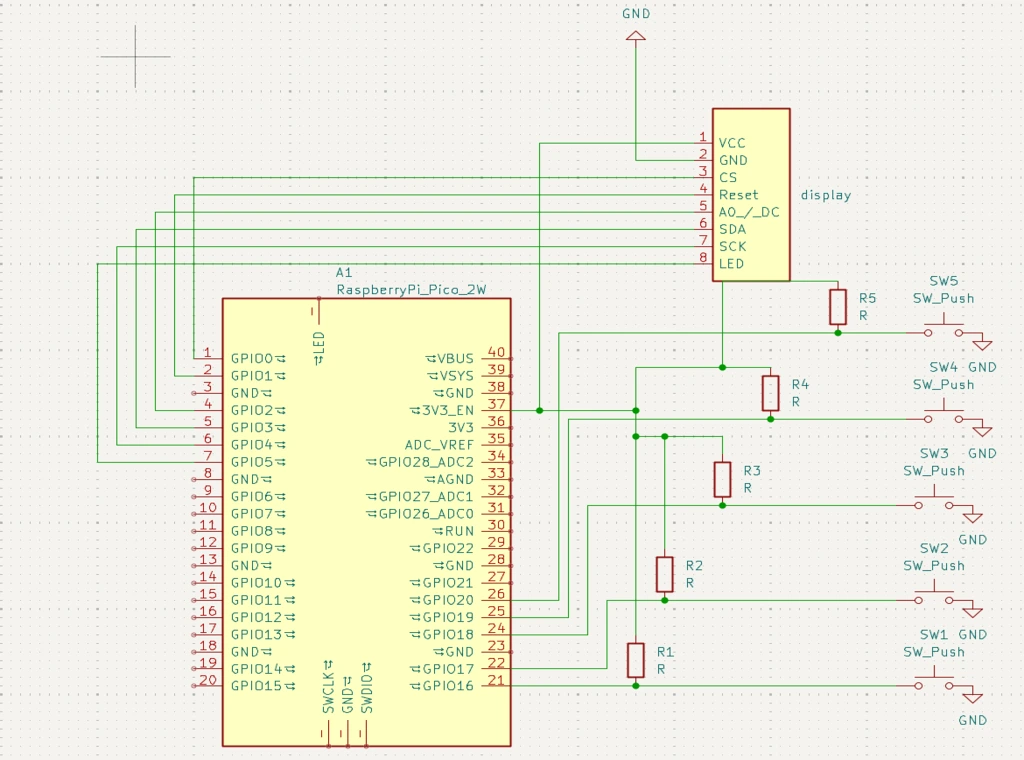
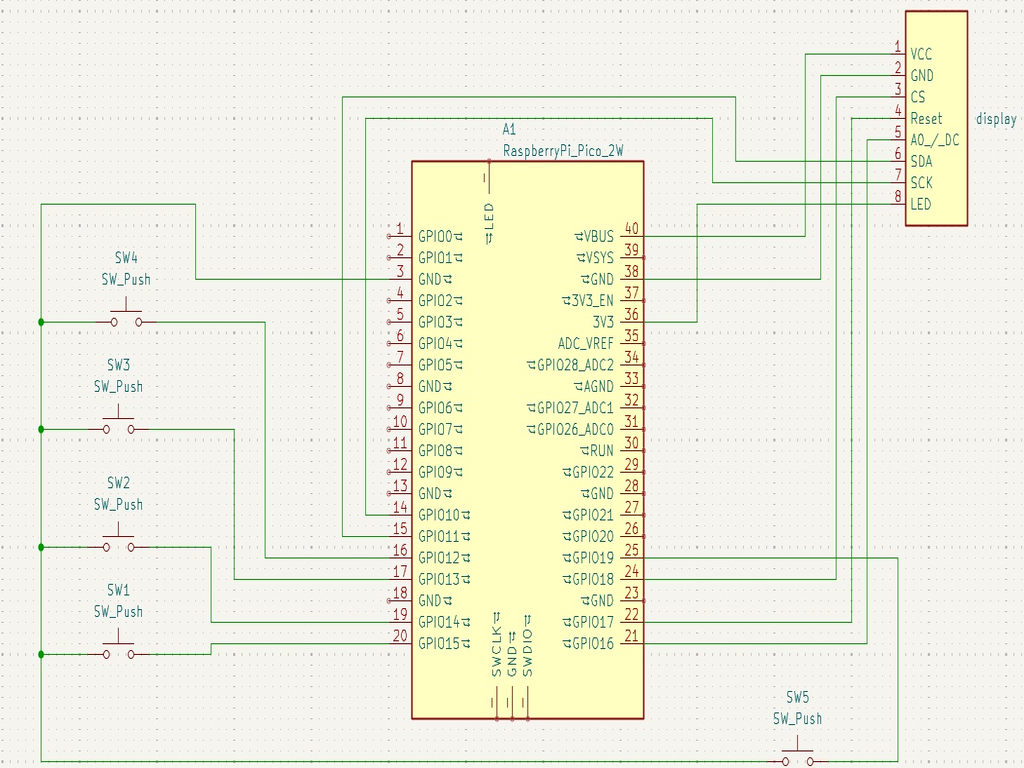
Hardware update

diff --git a/website/versioned_docs/version-acs_cc/project/2025/amalia.grumazescu/index.md b/website/versioned_docs/version-acs_cc/project/2025/amalia.grumazescu/index.md
@@ -40,6 +40,9 @@ Final version of the project
 
 
 # Hardware
+![poza1](amalia_poza1.webp)
+![poza2](amalia_poza2.webp)
+![poza3](amalia_poza3.webp)
 
 Raspberry Pi Pico 2W - main controller of the components
 LCD Display -  displays the game
@@ -65,7 +68,7 @@ Breadboard - to simplify the connections
 
 | Library | Description | Usage |
 |---------|-------------|-------|
-| [st7789](https://github.com/almindor/st7789) | Display driver | Used of the LCD display |
+| [st7735](https://github.com/Matiasus/ST7735) | Display driver | Used of the LCD display |
 | [embedded-graphics](https://github.com/embedded-graphics/embedded-graphics) | 2D graphics library | Used for drwaing for the display |
 
 # Links
